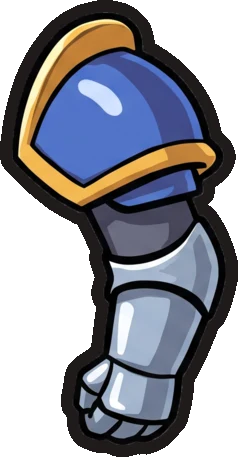
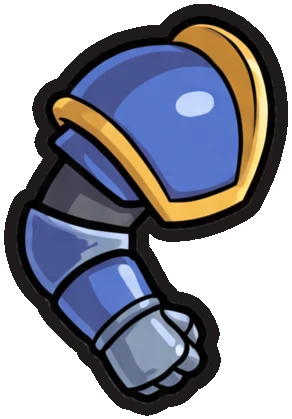
Re-roll the painted rooks with gripping fists and an uncrossed pose

diff --git a/src/components/paint/specs.ts b/src/components/paint/specs.ts
@@ -76,32 +76,33 @@ export const PAINTED: Record<string, Painted> = {
   },
   "rebel-rook": {
     id: "rebel-rook",
-    unit: 0.1125,
+    unit: 0.12,
     parts: {
-      armBack: { anchor: [81, 45], at: [30.4, 60] },
-      body: { anchor: [224, 85], at: [50, 55] },
-      armFront: { anchor: [205, 70], at: [64.6, 60], hand: [250, 345] },
-      prop: { anchor: [121, 670], scale: 0.85 },
-      head: { anchor: [134, 356], at: [49, 57], scale: 1.2 },
-      door: { anchor: [126, 12], at: [50.6, 33], scale: 0.82 },
+      armBack: { anchor: [85, 40], at: [37.4, 61.4], scale: 0.8 },
+      body: { anchor: [195, 488], at: [50, 108] },
+      armFront: { anchor: [85, 40], at: [59.5, 63.5], scale: 0.72, hand: [230, 195] },
+      prop: { anchor: [100, 560], scale: 0.7 },
+      head: { anchor: [117, 300], at: [49.5, 57], scale: 1.15 },
+      door: { anchor: [105, 10], at: [50.5, 30], scale: 1.1 },
     },
-    face: { x: 50.6, y: 38, gap: 4.1, r: 2.5, glow: true },
+    face: { x: 51.3, y: 39.5, gap: 4.6, r: 2.2, glow: true },
     armBackOver: true,
+    propClass: "sledge",
     shield: [27, 92],
     mouth: [50, 50, 5],
   },
   "patrol-rook": {
     id: "patrol-rook",
-    unit: 0.13,
+    unit: 0.105,
     parts: {
-      armBack: { anchor: [110, 110], at: [36.4, 58.5] },
-      body: { anchor: [140, 60], at: [50, 53] },
-      armFront: { anchor: [126, 110], at: [57.6, 57], hand: [206, 325] },
-      prop: { anchor: [86, 643], scale: 0.95 },
-      head: { anchor: [118, 298], at: [49, 58], scale: 1.15 },
-      door: { anchor: [96, 12], at: [49, 28.5], scale: 1.05 },
+      armBack: { anchor: [190, 120], at: [38, 58] },
+      body: { anchor: [185, 575], at: [50, 108] },
+      armFront: { anchor: [123, 95], at: [57, 57], scale: 0.85, hand: [263, 265] },
+      prop: { anchor: [95, 450], scale: 0.8 },
+      head: { anchor: [130, 300], at: [48, 57], scale: 1.15 },
+      door: { anchor: [115, 10], at: [48, 28], scale: 1.1 },
     },
-    face: { x: 49, y: 38.1, gap: 6.4, r: 2.5, eyes: false },
+    face: { x: 48, y: 38, gap: 6, r: 2.5, eyes: false },
     armBackOver: true,
     shield: [26, 92],
     mouth: [50, 50, 5],

diff --git a/src/rig.css b/src/rig.css
@@ -77,6 +77,11 @@
 .rig.rig-rook.rebel.art-new:not([class*="skin-"]).act-attack .prop.sledge{animation-name:rig-sledge}
 .rig.rig-rook.rebel.art-new:not([class*="skin-"]).act-attack .squash{animation-name:rig-slam}
 @keyframes rig-sledge{0%{transform:none}28%{transform:rotate(-7deg) translate(0,-9px)}40%,58%{transform:rotate(76deg) translate(0,46px)}74%{transform:rotate(18deg) translate(0,10px)}90%,100%{transform:none}}
+/* The painted sledge is gripped near the butt of its handle, so it only chokes up a little:
+   a long choke would pull the stone head back into his fist. Painted rigs also carry art-new,
+   so this rule must stay after rig-sledge's, which it beats only on source order. */
+.rig.rig-rook.rebel.art-paint:not([class*="skin-"]).act-attack .prop.sledge{animation-name:rig-sledge-paint}
+@keyframes rig-sledge-paint{0%{transform:none}28%{transform:rotate(-4deg) translate(0,-10px)}40%,58%{transform:rotate(104deg) translate(0,8px)}74%{transform:rotate(24deg) translate(0,3px)}90%,100%{transform:none}}
 @keyframes rig-slam{0%{transform:none}28%{transform:translateX(-4px) rotate(-9deg) scale(.92,1.1)}40%{transform:translateX(5px) rotate(5deg) scale(1.12,.86)}58%{transform:translateX(5px) rotate(4deg) scale(1.08,.9)}72%{transform:translateX(2px) scale(.97,1.04)}100%{transform:none}}
 @keyframes rig-slap{0%,28%{transform:none}40%,58%{transform:rotate(-70deg)}100%{transform:none}}
 @keyframes rig-smear{0%,37%{opacity:0}42%{opacity:.6}55%,100%{opacity:0}}

diff --git a/docs/art/DECISIONS.md b/docs/art/DECISIONS.md
@@ -533,3 +533,24 @@ Done on an early "chunky" lineup (big heads, flat colour, thick outline).
   patrol mask reads as a slate visor and his sword hugs the robe; the shared mate keyframes
   flatten the king at 35% before the crown launches (same for every art style).
 - Cost: about $1 on Replicate (seven Nano Banana Pro calls, four BRIA cutouts).
+
+## 2026-11-01: painted rooks re-rolled
+- Both painted rooks re-rolled with the kings' lessons (`docs/art/PAINTED.md`, "Rooks
+  (re-roll)") to fix the pilot's gaps: no fist gripped the sledge or halberd, the halberd
+  merged into the helm at 48px, the stonemason's bandana hid under his crossed arm, and the
+  painted interiors blurred at 48px.
+- Stonemason: sledge upright in his front fist (the fist visibly wraps the handle), compact
+  stone head beside the battlements, back arm hanging, bandana showing between the arms. His
+  sledge strike is restored as `rig-sledge-paint` (shorter choke-up than the drawn rig's).
+- Patrol rook: halberd upright in the gauntlet fist, a small crescent blade facing away from
+  the helm with background between them; flat plate, no chainmail.
+- Declared corrections for the judge: the sledge is held upright, not over the shoulder; the
+  sledge head and halberd blade are narrower than the reference so the figure fits x 18–82.
+- Judge (readability/style/likeness/motion/consistency). Round 1: rebel 7/8/7/8/8, patrol
+  8/8/8/7/8, a pass. Round 2 (front arm moved out so the bandana shows, helm moved left so the
+  sledge head clears it): rebel 8/8/7/8/8, patrol 7/8/7/8/8, a pass.
+- Still open: the halberd is thin and short at 48px (spear tip level with the helm top, a
+  1px shaft); the stonemason's vest reads as a brown apron with one patch and the bandana as
+  a band rather than a big kerchief; the vest outline behind his arms is lumpy; the patrol
+  halberd hides behind the body in the shared strike's wind-up.
+- Cost: about $0.58 on Replicate (four Nano Banana Pro calls, two BRIA cutouts).

diff --git a/docs/art/PAINTED.md b/docs/art/PAINTED.md
@@ -79,3 +79,20 @@ and both rooks (Nov 2026). Decision record: `DECISIONS.md`, "painted sprite pilo
 - The patrol cape hangs behind the robe, so his back arm stays behind the body (no
   `armBackOver`) and the cape shows on his back side.
 - The studio sheet (`shoot.mjs`) shows a `mate` row for kings, so a judge sees the crown fly.
+
+## Rooks (re-roll)
+
+- Re-rolled with the kings' lessons: the pose names the front fist wrapping the prop's shaft
+  with the prop upright at his side, the back arm hanging uncrossed, few interior lines (no
+  muscle hatching, no chainmail), and a compact sledge head or a small crescent halberd blade
+  that points away from the helm. Parts step: the pose image only; outline 12.
+- The body is anchored at the feet (`at: [50, 108]`), as for the kings, and the head sits on
+  the neck stump; the rooks' helms are now at 1.15 (not the 1.3 under "Limits") so the prop
+  heads clear them.
+- Stonemason: the front arm's shoulder sits at the body's right edge (x 59.5) at 0.72 so the
+  upper arm leaves the bandana showing, and the fist lands near x 71 so the sledge head fits
+  x 82. His painted sledge keeps its own strike (`propClass: "sledge"`, `rig-sledge-paint`):
+  the drawn `rig-sledge` chokes up 46px, which on the painted handle (gripped near its butt)
+  pulled the stone head back into the fist.
+- Patrol rook: his parts sheet painted both arms bent forward, so the back arm is turned 55°
+  in the cut (`rotate`) to hang at his back side, over the armhole (`armBackOver`).
